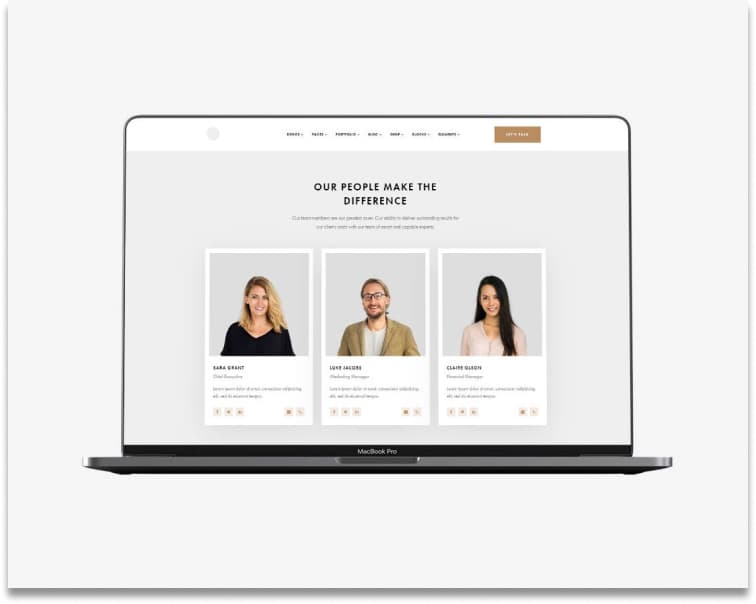
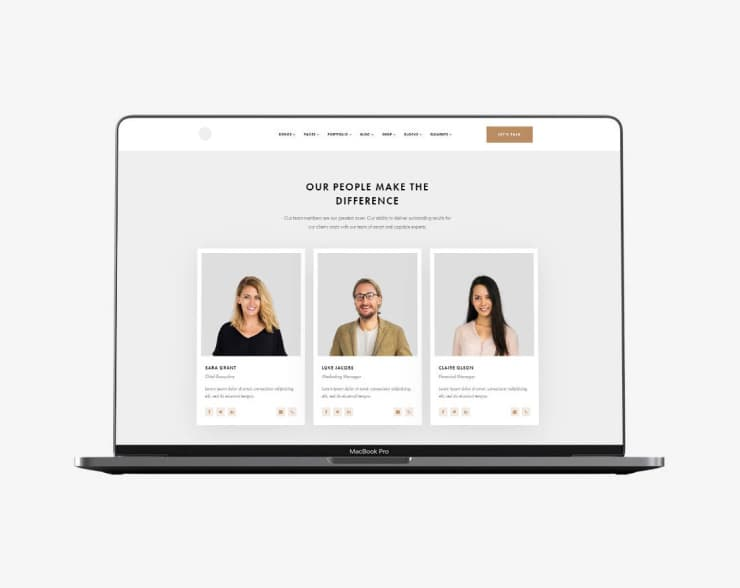
fixed

diff --git a/portfolio.html b/portfolio.html
@@ -53,7 +53,7 @@
 
         <!-- Portfolio section -->
 
-        <section class="portfolio">
+        <section class="section portfolio">
             <div class="container">
                 <h1 class="visually-hidden">Портфолио</h1>
                 <ul class="list filter-list">
@@ -76,75 +76,93 @@
 
                 <ul class="list portfolio-list">
                     <li class="portfolio-item">
-                        <a class="link portfolio-link" href="">
-                            <img class="portfolio-img" src="images/portfolio/project1.jpg" alt="Технокряк Веб-сайт"
+                        <a class="link portfolio-link" href="#">
+                            <img class="portfolio-img current-img" src="images/portfolio/project1.jpg" alt="Технокряк Веб-сайт"
                                 width="370" height="294">
-                            <h2 class="portfolio-subtitle">Технокряк</h2>
-                            <p class="portfolio-text">Веб-сайт</p>
+                            <div class="portfolio-card-wrapper">
+                                <h2 class="portfolio-subtitle">Технокряк</h2>
+                                <p class="portfolio-text">Веб-сайт</p>
+                            </div>
                         </a>
                     </li>
                     <li class="portfolio-item">
                         <a class="link portfolio-link" href="#">
                             <img class="portfolio-img" src="images/portfolio/project2.jpg"
                                 alt="Постер Постер Нью Орлеан версус Голден Стар Дизайн" width="370" height="294">
-                            <h2 class="portfolio-subtitle">Постер New Orlean vs Golden Star</h2>
-                            <p class="portfolio-text">Дизайн</p>
+                            <div class="portfolio-card-wrapper">
+                                <h2 class="portfolio-subtitle">Постер New Orlean vs Golden Star</h2>
+                                <p class="portfolio-text">Дизайн</p>
+                            </div>
                         </a>
                     </li>
                     <li class="portfolio-item">
                         <a class="link portfolio-link" href="#">
                             <img class="portfolio-img" src="images/portfolio/project3.jpg" alt="Ресторан Сифуд Приложение"
                                 width="370" height="294">
-                            <h2 class="portfolio-subtitle">Ресторан Seafood</h2>
-                            <p class="portfolio-text">Приложение</p>
+                            <div class="portfolio-card-wrapper">
+                                <h2 class="portfolio-subtitle">Ресторан Seafood</h2>
+                                <p class="portfolio-text">Приложение</p>
+                            </div>
                         </a>
                     </li>
                     <li class="portfolio-item">
                         <a class="link portfolio-link" href="#">
                             <img class="portfolio-img" src="images/portfolio/project4.jpg" alt="Проект Прайм Маркетинг"
                                 width="370" height="294">
-                            <h2 class="portfolio-subtitle">Проект Prime</h2>
-                            <p class="portfolio-text">Маркетинг</p>
+                            <div class="portfolio-card-wrapper">
+                                <h2 class="portfolio-subtitle">Проект Prime</h2>
+                                <p class="portfolio-text">Маркетинг</p>
+                            </div>
                         </a>
                     </li>
                     <li class="portfolio-item">
                         <a class="link portfolio-link" href="#">
                             <img class="portfolio-img" src="images/portfolio/project5.jpg" alt="Проект Боксес Приложение"
                                 width="370" height="294">
-                            <h2 class="portfolio-subtitle">Проект Boxes</h2>
-                            <p class="portfolio-text">Приложение</p>
+                            <div class="portfolio-card-wrapper">
+                                <h2 class="portfolio-subtitle">Проект Boxes</h2>
+                                <p class="portfolio-text">Приложение</p>
+                            </div>
                         </a>
                     </li>
                     <li class="portfolio-item">
                         <a class="link portfolio-link" href="#">
                             <img class="portfolio-img" src="images/portfolio/project6.jpg"
                                 alt="Вдохновение не имеет границ Веб-сайт" width="370" height="294">
-                            <h2 class="portfolio-subtitle">Inspiration has no Borders</h2>
-                            <p class="portfolio-text">Веб-сайт</p>
+                            <div class="portfolio-card-wrapper">
+                                <h2 class="portfolio-subtitle">Inspiration has no Borders</h2>
+                                <p class="portfolio-text">Веб-сайт</p>
+                            </div>
                         </a>
                     </li>
                     <li class="portfolio-item">
                         <a class="link portfolio-link" href="#">
                             <img class="portfolio-img" src="images/portfolio/project7.jpg"
                                 alt="Издание Лимитед Эдишн Дизайн" width="370" height="294">
-                            <h2 class="portfolio-subtitle">Издание Limited Edition</h2>
-                            <p class="portfolio-text">Дизайн</p>
+                            <div class="portfolio-card-wrapper">
+                                <h2 class="portfolio-subtitle">Издание Limited Edition</h2>
+                                <p class="portfolio-text">Дизайн</p>
+                            </div>
                         </a>
                     </li>
                     <li class="portfolio-item">
                         <a class="link portfolio-link" href="#">
                             <img class="portfolio-img" src="images/portfolio/project8.jpg" alt="Проект ЛАБ Маркетинг"
                                 width="370" height="294">
-                            <h2 class="portfolio-subtitle">Проект LAB</h2>
-                            <p class="portfolio-text">Маркетинг</p>
+                            <div class="portfolio-card-wrapper">
+                                <h2 class="portfolio-subtitle">Проект LAB</h2>
+                                <p class="portfolio-text">Маркетинг</p>
+                            </div>
                         </a>
                     </li>
                     <li class="portfolio-item">
                         <a class="link portfolio-link" href="#">
                             <img class="portfolio-img" src="images/portfolio/project9.jpg" alt="Гроуин Бизнес Приложение"
                                 width="370" height="294">
-                            <h2 class="portfolio-subtitle">Growing Business</h2>
-                            <p class="portfolio-text">Приложение</p>
+                            <div class="portfolio-card-wrapper">
+                                <h2 class="portfolio-subtitle">Growing Business</h2>
+                                <p class="portfolio-text">Приложение</p>
+                            </div>
                         </a>
                     </li>
                 </ul>
@@ -156,7 +174,7 @@
     <!-- Footer -->
 
     <footer class="footer">
-        <div class="container page-footer">
+        <div class="container">
             <a class="footer-logo" href="./index.html"><span class="footer-text">Web</span>Studio</a>
             <address class="address">
                 <ul class="list address-list">

diff --git a/index.html b/index.html
@@ -52,8 +52,8 @@
     <main>
 
         <!-- Hero section-->
-        <section class="hero">
-            <div class="hero-container">
+        <section class="section hero">
+            <div class="container">
                 <h1 class="hero-title">Эффективные решения 
                     для вашего бизнеса</h1>
                 <button type="button" class="button hero-btn">Заказать услугу</button>
@@ -61,7 +61,7 @@
         </section>
 
         <!-- About section-->
-        <section class="about">
+        <section class="section about">
             <h2 class="visually-hidden">Преимущества</h2>
             <div class="container">
                 <ul class="list about-list">
@@ -90,7 +90,7 @@
         </section>
 
         <!-- Wedo section-->
-        <section class="wedo">
+        <section class="section wedo">
             <div class="container">
                 <h2 class="section-title">Чем мы занимаемся</h2>
                 <ul class="list wedo-list">
@@ -110,33 +110,41 @@
         </section>
 
         <!-- Team section-->
-        <section class="team">
+        <section class="section">
             <div class="container">
                 <h2 class="section-title">Наша команда</h2>
                 <ul class="list team-list">
                     <li class="team-item">
                         <img class="team-img" src="./images/studio/team-member1.jpg" alt="Игорь Демьяненко Product Designer"
                             width="270" height="260">
-                        <h3 class="team-name">Игорь Демьяненко</h3>
-                        <p class="team-profession">Product Designer</p>
+                        <div class="team-card-wrapper">
+                            <h3 class="team-name">Игорь Демьяненко</h3>
+                            <p class="team-profession">Product Designer</p>
+                        </div>
                     </li>
                     <li class="team-item">
                         <img class="team-img" src="./images/studio/team-member2.jpg" alt="Ольга Репина Frontend Developer"
                             width="270" height="260">
-                        <h3 class="team-name">Ольга Репина</h3>
-                        <p class="team-profession">Frontend Developer</p>
+                        <div class="team-card-wrapper">
+                            <h3 class="team-name">Ольга Репина</h3>
+                            <p class="team-profession">Frontend Developer</p>
+                        </div>
                     </li>
                     <li class="team-item">
                         <img class="team-img" src="./images/studio/team-member3.jpg" alt="Николай Тарасов Marketing"
                             width="270" height="260">
-                        <h3 class="team-name">Николай Тарасов</h3>
-                        <p class="team-profession">Marketing</p>
+                        <div class="team-card-wrapper">
+                            <h3 class="team-name">Николай Тарасов</h3>
+                            <p class="team-profession">Marketing</p>
+                        </div>
                     </li>
                     <li class="team-item">
                         <img class="team-img" src="./images/studio/team-member4.jpg" alt="Михаил Ермаков UI Designer"
                             width="270" height="260">
-                        <h3 class="team-name">Михаил Ермаков</h3>
-                        <p class="team-profession">UI Designer</p>
+                        <div class="team-card-wrapper">
+                            <h3 class="team-name">Михаил Ермаков</h3>
+                            <p class="team-profession">UI Designer</p>
+                        </div>
                     </li>
                 </ul>
             </div>
@@ -147,7 +155,7 @@
 
     <!-- Footer -->
     <footer class="footer">
-        <div class="container page-footer">
+        <div class="container">
             <a class="footer-logo" href="./index.html"><span class="footer-text">Web</span>Studio</a>
             <address class="address">
                 <ul class="list address-list">

diff --git a/css/styles.css b/css/styles.css
@@ -8,6 +8,7 @@
     --main-light: #FFFFFF;
     --logo-color: #000000;
     --btn-color: #188CE8;
+    --header-border: #ECECEC;
     --border-color: #EEEEEE;
 
     --primary-background: #F5F4FA;
@@ -25,16 +26,6 @@ body {
 
     background-color: var(--primary-background);
     color: var(--primary-color);
-}
-
-html {
-    box-sizing: border-box;
-}
-
-*,
-*::before,
-*::after {
-    box-sizing: inherit;
 }
 
 img {
@@ -69,6 +60,7 @@ img {
 /* Header */
 
 .header {
+    border-bottom: 1px solid var(--header-border);
     background-color: var(--main-light);
 }
 
@@ -156,8 +148,12 @@ img {
 }
 
 /* Hero section*/
+.section {
+    padding: 94px 0;
+}
 
 .hero {
+    padding: 200px 0;
     text-align: center;
 
     background-color: var(--secondary-background);
@@ -200,9 +196,6 @@ img {
 /* About section */
 
 .about {
-    padding-top: 94px;
-    padding-bottom: 94px;
-
     background-color: var(--main-light);
 }
 
@@ -252,7 +245,7 @@ img {
 /* Wedo section */
 
 .wedo {
-    padding-bottom: 94px;
+    padding-top: 0;
 
     background-color: var(--main-light);
 }
@@ -280,15 +273,10 @@ img {
 }
 
 .wedo-img {
-    display: block;
+    
 }
 
 /* Team section */
-
-.team {
-    padding-top: 94px;
-    padding-bottom: 94px;
-}
 
 .team-list {
     display: flex;
@@ -309,8 +297,11 @@ img {
 }
 
 .team-img {
-    display: block;
-    margin-bottom: 30px;
+    
+}
+
+.team-card-wrapper {
+    padding: 30px 0;
 }
 
 .team-name {
@@ -325,7 +316,6 @@ img {
 .team-profession {
     margin-top: 0;
     margin-bottom: 0;
-    padding-bottom: 30px;
 
     font-size: 16px;
     line-height: 1.2;
@@ -336,15 +326,13 @@ img {
 /* Portfolio section */
 
 .portfolio {
-    padding: 94px 0;
-
     background-color: var(--main-light);
 }
 
 .filter-list {
     display: flex;
     justify-content: center;
-    padding-bottom: 50px;
+    margin-bottom: 50px;
 }
 
 .filter-list .filter-item + .filter-item {
@@ -400,16 +388,20 @@ img {
     margin-bottom: 0;
 }
 
-.portfolio-link {}
-
 .portfolio-img {
-    display: block;
-    margin-bottom: 20px;
+    
+}
+
+.current-img {
+    filter: drop-shadow(0px 4px 4px rgba(0, 0, 0, 0.25)) drop-shadow(0px 4px 4px rgba(0, 0, 0, 0.25));
+}
+
+.portfolio-card-wrapper {
+    padding: 20px 24px 20px 24px;
 }
 
 .portfolio-subtitle {
     margin-top: 0;
-    padding: 0 24px;
     margin-bottom: 4px;
 
     font-size: 18px;
@@ -422,7 +414,6 @@ img {
 .portfolio-text {
     margin-top: 0;
     margin-bottom: 0;
-    padding: 0 24px 20px;
 
     line-height: 1.9;
 
@@ -432,12 +423,10 @@ img {
 /* Footer */
 
 .footer {
-    background-color: var(--secondary-background);
-}
-
-.page-footer {
     padding-top: 60px;
     padding-bottom: 60px;
+
+    background-color: var(--secondary-background);
 }
 
 .footer-logo {
